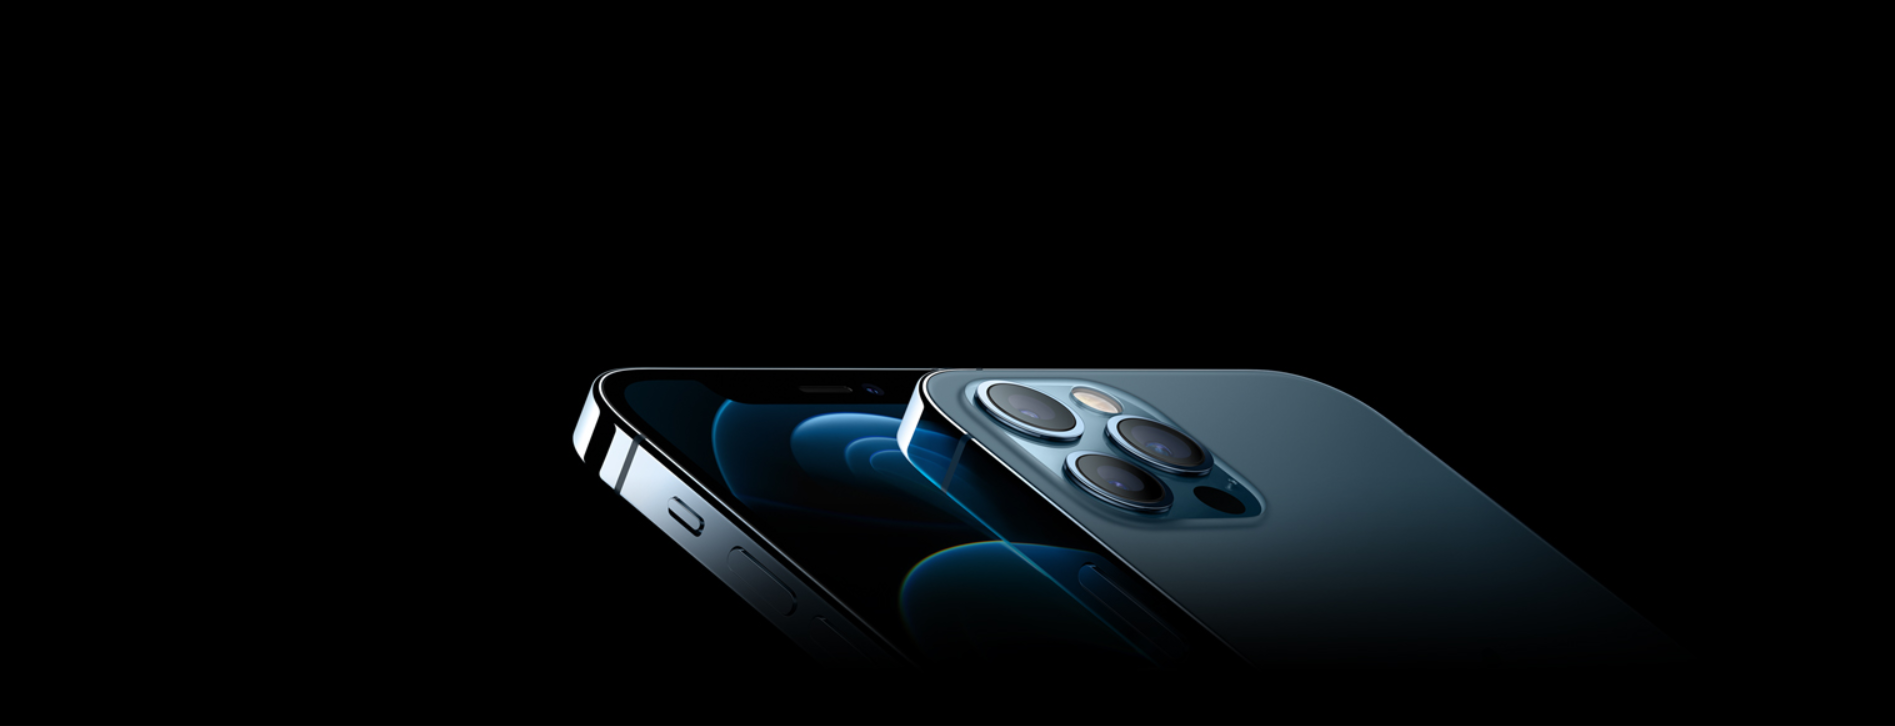
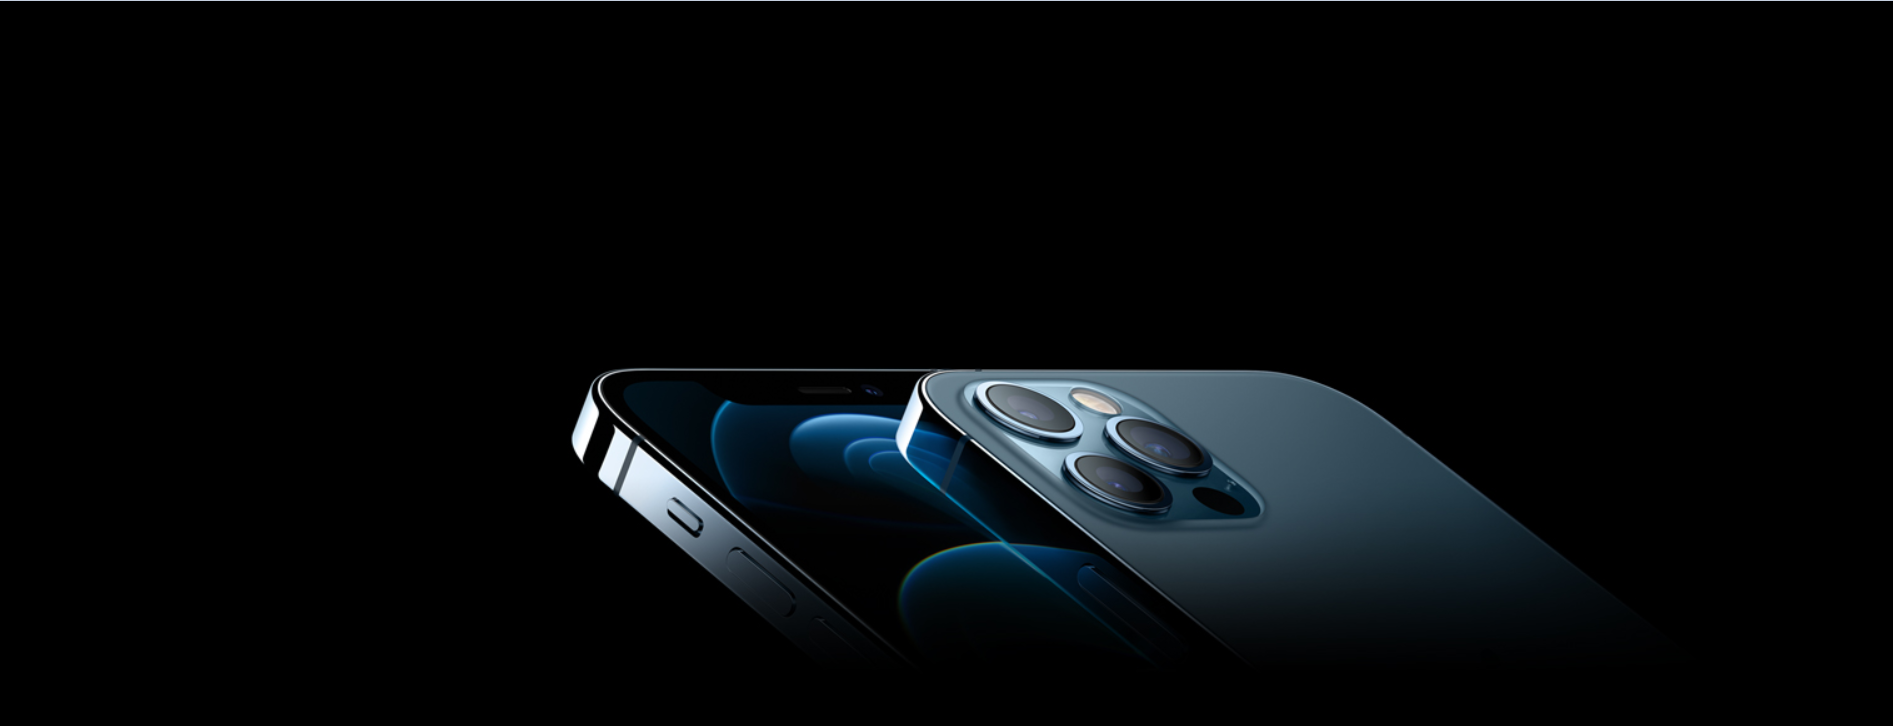
New Commit
Updated the hero image.

diff --git a/index.html b/index.html
@@ -11,7 +11,7 @@
     <header>
         <nav>
             <ul id="nav-links">
-                <li id ="nav-links-a" class="nav-links-item"><a href ="#"><i class="fab fa-apple nav-icons"></i></a></li>
+                <li id ="nav-links-a" class="nav-links-item"><a href =""><i class="fab fa-apple nav-icons"></i></a></li>
                 <li id ="nav-links-b" class="nav-links-item"><a href ="">Mac</a></li>
                 <li id ="nav-links-b" class="nav-links-item"><a href ="">iPad</a></li>
                 <li id ="nav-links-c" class="nav-links-item"><a href ="">iPhone</a></li>

diff --git a/style.css b/style.css
@@ -235,11 +235,11 @@ main{
         right:0;       
 }
 
-.hero{
+#hero-a{
         width:100%;
         height:75vh;
         margin-bottom:10px;
-        background-image: url(./assets/hero1.png);
+        background-image: url(./Assets/hero1.jpg);
         background-size: contain;
         position:relative;
 }
